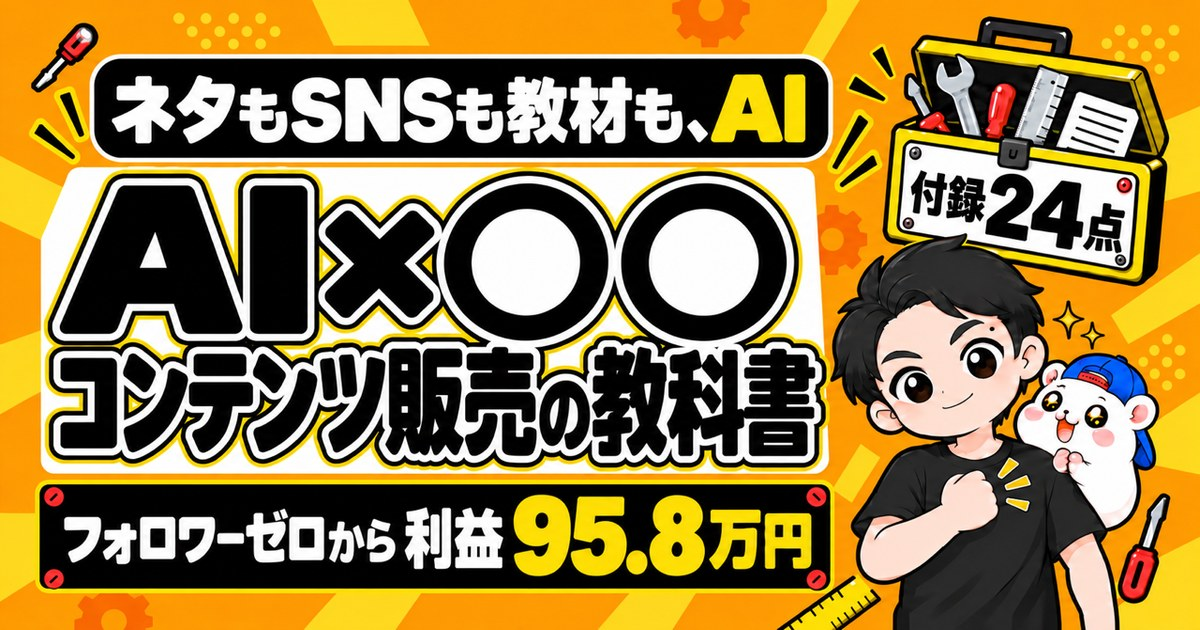
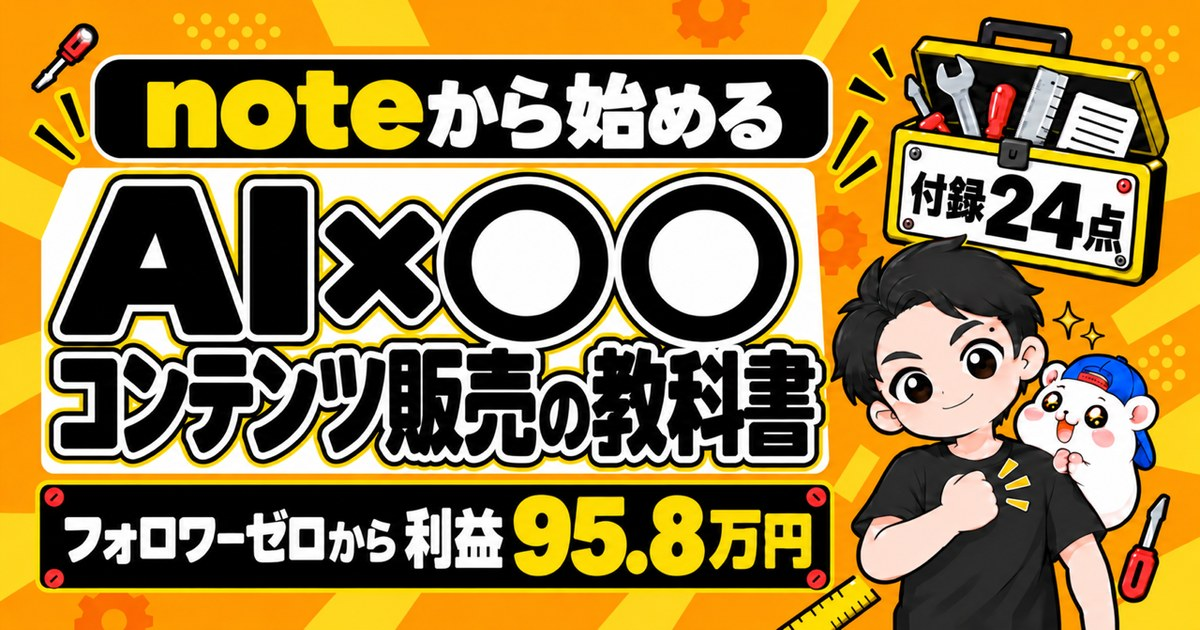
Retitle the AI textbook to 'noteから始める「AI×◯◯」コンテンツ販売の教科書' on its sales page, cover, and article promos

diff --git a/articles/2026-10-18-content-sales-price-up-ai.html b/articles/2026-10-18-content-sales-price-up-ai.html
@@ -162,7 +162,7 @@
 3. 台帳の部数と段の表がずれたら、直すところの一覧を出してください
 4. 直したあと、3つの販売ページを開いて、価格と「買える状態か」を確かめてください
 5. わたしが画面で押す必要がある操作は、最後に1回にまとめて、欄の名前と数字とボタンまで書いてください</code></pre>
-<p>この流れは、『「AI×◯◯」コンテンツ販売の教科書』の第6部「6-5 価格|3部ごとに上げる段と、表示の点検」と、第7部「7-1 販売を1つの台帳にまとめて、売れたらスマホに知らせる」に、手順とAIへの頼み方とつまずきを書きました。</p>
+<p>この流れは、『noteから始める「AI×◯◯」コンテンツ販売の教科書』の第6部「6-5 価格|3部ごとに上げる段と、表示の点検」と、第7部「7-1 販売を1つの台帳にまとめて、売れたらスマホに知らせる」に、手順とAIへの頼み方とつまずきを書きました。</p>
 <p>付録15(販売台帳と通知)と付録16(値上げの段+表示点検)には、ぼくが毎日使っているツールを、見本つきで入れています。</p>
 <p>AIでどこまで自動にするかは、各サービスの規約を確かめたうえで、自己責任で決めてください。</p>
 <hr/>
@@ -181,18 +181,18 @@
 <p>▼売れた部数の台帳と値上げのツールも、1冊にまとめてあります</p>
 <p>フォロワーゼロから利益95.8万円まで、54日間の数字と失敗と手順を、全部書いた教科書です。</p>
 <p>録音から記事、教材、販売ページ、売れたあとの台帳まで。うちで毎日使っているツールも付録に入れました。</p>
-<p>『「AI×◯◯」コンテンツ販売の教科書｜フォロワーゼロから利益95.8万円』</p>
-<div class="link-card-wrap"><a class="link-card" href="https://rental-space.net/kyokasho/ai-contents/"><span class="lc-body"><span class="lc-title">「AI×◯◯」コンテンツ販売の教科書｜フォロワーゼロから利益95.8万円</span><span class="lc-desc">AIでやったことを、AIで教材にして売る。フォロワーゼロから発売54日で利益95.8万円。最初の章(第0部)は全部無料で読めます。</span><span class="lc-site">rental-space.net</span></span><span class="lc-thumb"><img src="/kyokasho/ai-contents/img/ogp.jpg" alt="" loading="lazy"></span></a></div>
+<p>『noteから始める「AI×◯◯」コンテンツ販売の教科書｜フォロワーゼロから利益95.8万円』</p>
+<div class="link-card-wrap"><a class="link-card" href="https://rental-space.net/kyokasho/ai-contents/"><span class="lc-body"><span class="lc-title">noteから始める「AI×◯◯」コンテンツ販売の教科書｜フォロワーゼロから利益95.8万円</span><span class="lc-desc">AIでやったことを、AIで教材にして売る。フォロワーゼロから発売54日で利益95.8万円。最初の章(第0部)は全部無料で読めます。</span><span class="lc-site">rental-space.net</span></span><span class="lc-thumb"><img src="/kyokasho/ai-contents/img/ogp.jpg" alt="" loading="lazy"></span></a></div>
 <p>販売価格は3部売れるごとに2,000円ずつ値上がりします（上限あり）。内容・最新価格は販売ページをご確認ください。</p>
 <!-- kyokasho-promo end -->
 </div>
 <!-- kyokasho-banner-ai start -->
 <aside class="kyokasho-banner kb-ai">
     <a href="/kyokasho/ai-contents/" class="kb-thumb">
-        <img src="/kyokasho/ai-contents/img/ogp.jpg" alt="「AI×◯◯」コンテンツ販売の教科書｜フォロワーゼロから利益95.8万円" loading="lazy" width="640" height="335">
+        <img src="/kyokasho/ai-contents/img/ogp.jpg" alt="noteから始める「AI×◯◯」コンテンツ販売の教科書｜フォロワーゼロから利益95.8万円" loading="lazy" width="640" height="335">
     </a>
     <div class="kb-body">
-        <p class="kb-title">「AI×◯◯」コンテンツ販売の教科書</p>
+        <p class="kb-title">noteから始める「AI×◯◯」コンテンツ販売の教科書</p>
         <p class="kb-sub">フォロワーゼロから利益95.8万円まで、54日間の数字と失敗と手順を全部書きました。録音から記事・教材・販売ページ・売れたあとの台帳まで。付録24点つき。販売価格は3部売れるごとに2,000円ずつ値上がりします（上限あり）。内容・最新価格は販売ページをご確認ください。</p>
         <div class="kb-actions">
             <a href="/kyokasho/ai-contents/" class="kb-btn kb-btn-ebay">くわしく見る・買う</a>

diff --git a/articles/2026-10-18-manga-shorts-ai-daily.html b/articles/2026-10-18-manga-shorts-ai-daily.html
@@ -173,7 +173,7 @@
 
 コマ/だれ/セリフ/場面 の表にしてください。</code></pre>
 <p>台本ができたら、場面の1行を、そのまま絵の指示に使えます。</p>
-<p>記事を素材にして発信を回す流れは、『「AI×◯◯」コンテンツ販売の教科書』の第2部(素材をためる)と第4部(全媒体に出す)に書きました。</p>
+<p>記事を素材にして発信を回す流れは、『noteから始める「AI×◯◯」コンテンツ販売の教科書』の第2部(素材をためる)と第4部(全媒体に出す)に書きました。</p>
 <p>ショートの作り方そのものは、第8部「動画と講座」として第2版で足します。すでに買った人には、追加料金なしで届けます。</p>
 <p>AIでどこまで自動にするか、投稿にAIで作ったことをどう書くかは、各サービスの規約を確かめたうえで、自己責任で決めてください。</p>
 <p>例えば、ぼくは投稿文に「音声は本人の声をもとにAIで生成しています」と入れています。</p>
@@ -195,18 +195,18 @@
 <p>フォロワーゼロから利益95.8万円まで、54日間の数字と失敗と手順を、全部書いた教科書です。</p>
 <p>録音から記事、教材、販売ページ、売れたあとの台帳まで。うちで毎日使っているツールも付録に入れました。</p>
 <p>動画の章(第8部)は第2版で足します。すでに買った人には、追加料金はかかりません。</p>
-<p>『「AI×◯◯」コンテンツ販売の教科書｜フォロワーゼロから利益95.8万円』</p>
-<div class="link-card-wrap"><a class="link-card" href="https://rental-space.net/kyokasho/ai-contents/"><span class="lc-body"><span class="lc-title">「AI×◯◯」コンテンツ販売の教科書｜フォロワーゼロから利益95.8万円</span><span class="lc-desc">AIでやったことを、AIで教材にして売る。フォロワーゼロから発売54日で利益95.8万円。最初の章(第0部)は全部無料で読めます。</span><span class="lc-site">rental-space.net</span></span><span class="lc-thumb"><img src="/kyokasho/ai-contents/img/ogp.jpg" alt="" loading="lazy"></span></a></div>
+<p>『noteから始める「AI×◯◯」コンテンツ販売の教科書｜フォロワーゼロから利益95.8万円』</p>
+<div class="link-card-wrap"><a class="link-card" href="https://rental-space.net/kyokasho/ai-contents/"><span class="lc-body"><span class="lc-title">noteから始める「AI×◯◯」コンテンツ販売の教科書｜フォロワーゼロから利益95.8万円</span><span class="lc-desc">AIでやったことを、AIで教材にして売る。フォロワーゼロから発売54日で利益95.8万円。最初の章(第0部)は全部無料で読めます。</span><span class="lc-site">rental-space.net</span></span><span class="lc-thumb"><img src="/kyokasho/ai-contents/img/ogp.jpg" alt="" loading="lazy"></span></a></div>
 <p>販売価格は3部売れるごとに2,000円ずつ値上がりします（上限あり）。内容・最新価格は販売ページをご確認ください。</p>
 <!-- kyokasho-promo end -->
 </div>
 <!-- kyokasho-banner-ai start -->
 <aside class="kyokasho-banner kb-ai">
     <a href="/kyokasho/ai-contents/" class="kb-thumb">
-        <img src="/kyokasho/ai-contents/img/ogp.jpg" alt="「AI×◯◯」コンテンツ販売の教科書｜フォロワーゼロから利益95.8万円" loading="lazy" width="640" height="335">
+        <img src="/kyokasho/ai-contents/img/ogp.jpg" alt="noteから始める「AI×◯◯」コンテンツ販売の教科書｜フォロワーゼロから利益95.8万円" loading="lazy" width="640" height="335">
     </a>
     <div class="kb-body">
-        <p class="kb-title">「AI×◯◯」コンテンツ販売の教科書</p>
+        <p class="kb-title">noteから始める「AI×◯◯」コンテンツ販売の教科書</p>
         <p class="kb-sub">フォロワーゼロから利益95.8万円まで、54日間の数字と失敗と手順を全部書きました。録音から記事・教材・販売ページ・売れたあとの台帳まで。付録24点つき。販売価格は3部売れるごとに2,000円ずつ値上がりします（上限あり）。内容・最新価格は販売ページをご確認ください。</p>
         <div class="kb-actions">
             <a href="/kyokasho/ai-contents/" class="kb-btn kb-btn-ebay">くわしく見る・買う</a>

diff --git a/articles/2026-10-20-content-sales-starts-with-voice-recording.html b/articles/2026-10-20-content-sales-starts-with-voice-recording.html
@@ -202,18 +202,18 @@
 <p>▼録音から記事、教材、販売ページまで。やったことを1冊にまとめてあります</p>
 <p>フォロワーゼロから利益95.8万円まで、54日間の数字と失敗と手順を、全部書いた教科書です。</p>
 <p>録音から記事、教材、販売ページ、売れたあとの台帳まで。うちで毎日使っているツールも付録に入れました。</p>
-<p>『「AI×◯◯」コンテンツ販売の教科書｜フォロワーゼロから利益95.8万円』</p>
-<div class="link-card-wrap"><a class="link-card" href="https://rental-space.net/kyokasho/ai-contents/?utm_source=blog&amp;utm_medium=article&amp;utm_campaign=content-sales-starts-with-voice-recording"><span class="lc-body"><span class="lc-title">「AI×◯◯」コンテンツ販売の教科書｜フォロワーゼロから利益95.8万円</span><span class="lc-desc">AIでやったことを、AIで教材にして売る。フォロワーゼロから発売54日で利益95.8万円。最初の章(第0部)は全部無料で読めます。</span><span class="lc-site">rental-space.net</span></span><span class="lc-thumb"><img src="/kyokasho/ai-contents/img/ogp.jpg" alt="" loading="lazy"></span></a></div>
+<p>『noteから始める「AI×◯◯」コンテンツ販売の教科書｜フォロワーゼロから利益95.8万円』</p>
+<div class="link-card-wrap"><a class="link-card" href="https://rental-space.net/kyokasho/ai-contents/?utm_source=blog&amp;utm_medium=article&amp;utm_campaign=content-sales-starts-with-voice-recording"><span class="lc-body"><span class="lc-title">noteから始める「AI×◯◯」コンテンツ販売の教科書｜フォロワーゼロから利益95.8万円</span><span class="lc-desc">AIでやったことを、AIで教材にして売る。フォロワーゼロから発売54日で利益95.8万円。最初の章(第0部)は全部無料で読めます。</span><span class="lc-site">rental-space.net</span></span><span class="lc-thumb"><img src="/kyokasho/ai-contents/img/ogp.jpg" alt="" loading="lazy"></span></a></div>
 <p>販売価格は3部売れるごとに2,000円ずつ値上がりします（上限あり）。内容・最新価格は販売ページをご確認ください。</p>
 <!-- kyokasho-promo end -->
 </div>
 <!-- kyokasho-banner-ai start -->
 <aside class="kyokasho-banner kb-ai">
     <a href="/kyokasho/ai-contents/" class="kb-thumb">
-        <img src="/kyokasho/ai-contents/img/ogp.jpg" alt="「AI×◯◯」コンテンツ販売の教科書｜フォロワーゼロから利益95.8万円" loading="lazy" width="640" height="335">
+        <img src="/kyokasho/ai-contents/img/ogp.jpg" alt="noteから始める「AI×◯◯」コンテンツ販売の教科書｜フォロワーゼロから利益95.8万円" loading="lazy" width="640" height="335">
     </a>
     <div class="kb-body">
-        <p class="kb-title">「AI×◯◯」コンテンツ販売の教科書</p>
+        <p class="kb-title">noteから始める「AI×◯◯」コンテンツ販売の教科書</p>
         <p class="kb-sub">フォロワーゼロから利益95.8万円まで、54日間の数字と失敗と手順を全部書きました。録音から記事・教材・販売ページ・売れたあとの台帳まで。付録24点つき。販売価格は3部売れるごとに2,000円ずつ値上がりします（上限あり）。内容・最新価格は販売ページをご確認ください。</p>
         <div class="kb-actions">
             <a href="/kyokasho/ai-contents/" class="kb-btn kb-btn-ebay">くわしく見る・買う</a>

diff --git a/articles/2026-10-21-note-monetization-54-days-numbers.html b/articles/2026-10-21-note-monetization-54-days-numbers.html
@@ -182,18 +182,18 @@
 <p>▼noteで始めて、自分のページまで。やったことを1冊にまとめてあります</p>
 <p>フォロワーゼロから利益95.8万円まで、54日間の数字と失敗と手順を、全部書いた教科書です。</p>
 <p>録音から記事、教材、販売ページ、売れたあとの台帳まで。うちで毎日使っているツールも付録に入れました。</p>
-<p>『「AI×◯◯」コンテンツ販売の教科書｜フォロワーゼロから利益95.8万円』</p>
-<div class="link-card-wrap"><a class="link-card" href="https://rental-space.net/kyokasho/ai-contents/?utm_source=blog&amp;utm_medium=article&amp;utm_campaign=note-monetization-numbers"><span class="lc-body"><span class="lc-title">「AI×◯◯」コンテンツ販売の教科書｜フォロワーゼロから利益95.8万円</span><span class="lc-desc">AIでやったことを、AIで教材にして売る。フォロワーゼロから発売54日で利益95.8万円。最初の章(第0部)は全部無料で読めます。</span><span class="lc-site">rental-space.net</span></span><span class="lc-thumb"><img src="/kyokasho/ai-contents/img/ogp.jpg" alt="" loading="lazy"></span></a></div>
+<p>『noteから始める「AI×◯◯」コンテンツ販売の教科書｜フォロワーゼロから利益95.8万円』</p>
+<div class="link-card-wrap"><a class="link-card" href="https://rental-space.net/kyokasho/ai-contents/?utm_source=blog&amp;utm_medium=article&amp;utm_campaign=note-monetization-numbers"><span class="lc-body"><span class="lc-title">noteから始める「AI×◯◯」コンテンツ販売の教科書｜フォロワーゼロから利益95.8万円</span><span class="lc-desc">AIでやったことを、AIで教材にして売る。フォロワーゼロから発売54日で利益95.8万円。最初の章(第0部)は全部無料で読めます。</span><span class="lc-site">rental-space.net</span></span><span class="lc-thumb"><img src="/kyokasho/ai-contents/img/ogp.jpg" alt="" loading="lazy"></span></a></div>
 <p>販売価格は3部売れるごとに2,000円ずつ値上がりします（上限あり）。内容・最新価格は販売ページをご確認ください。</p>
 <!-- kyokasho-promo end -->
 </div>
 <!-- kyokasho-banner-ai start -->
 <aside class="kyokasho-banner kb-ai">
     <a href="/kyokasho/ai-contents/" class="kb-thumb">
-        <img src="/kyokasho/ai-contents/img/ogp.jpg" alt="「AI×◯◯」コンテンツ販売の教科書｜フォロワーゼロから利益95.8万円" loading="lazy" width="640" height="335">
+        <img src="/kyokasho/ai-contents/img/ogp.jpg" alt="noteから始める「AI×◯◯」コンテンツ販売の教科書｜フォロワーゼロから利益95.8万円" loading="lazy" width="640" height="335">
     </a>
     <div class="kb-body">
-        <p class="kb-title">「AI×◯◯」コンテンツ販売の教科書</p>
+        <p class="kb-title">noteから始める「AI×◯◯」コンテンツ販売の教科書</p>
         <p class="kb-sub">フォロワーゼロから利益95.8万円まで、54日間の数字と失敗と手順を全部書きました。録音から記事・教材・販売ページ・売れたあとの台帳まで。付録24点つき。販売価格は3部売れるごとに2,000円ずつ値上がりします（上限あり）。内容・最新価格は販売ページをご確認ください。</p>
         <div class="kb-actions">
             <a href="/kyokasho/ai-contents/" class="kb-btn kb-btn-ebay">くわしく見る・買う</a>

diff --git a/articles/2026-10-19-content-sales-pyramid-44-percent-zero.html b/articles/2026-10-19-content-sales-pyramid-44-percent-zero.html
@@ -151,18 +151,18 @@
 <p>▼1部目から、ひとつ上の段まで。やったことを1冊にまとめてあります</p>
 <p>フォロワーゼロから利益95.8万円まで、54日間の数字と失敗と手順を、全部書いた教科書です。</p>
 <p>録音から記事、教材、販売ページ、売れたあとの台帳まで。うちで毎日使っているツールも付録に入れました。</p>
-<p>『「AI×◯◯」コンテンツ販売の教科書｜フォロワーゼロから利益95.8万円』</p>
-<div class="link-card-wrap"><a class="link-card" href="https://rental-space.net/kyokasho/ai-contents/?utm_source=blog&amp;utm_medium=article&amp;utm_campaign=content-sales-pyramid"><span class="lc-body"><span class="lc-title">「AI×◯◯」コンテンツ販売の教科書｜フォロワーゼロから利益95.8万円</span><span class="lc-desc">AIでやったことを、AIで教材にして売る。フォロワーゼロから発売54日で利益95.8万円。最初の章(第0部)は全部無料で読めます。</span><span class="lc-site">rental-space.net</span></span><span class="lc-thumb"><img src="/kyokasho/ai-contents/img/ogp.jpg" alt="" loading="lazy"></span></a></div>
+<p>『noteから始める「AI×◯◯」コンテンツ販売の教科書｜フォロワーゼロから利益95.8万円』</p>
+<div class="link-card-wrap"><a class="link-card" href="https://rental-space.net/kyokasho/ai-contents/?utm_source=blog&amp;utm_medium=article&amp;utm_campaign=content-sales-pyramid"><span class="lc-body"><span class="lc-title">noteから始める「AI×◯◯」コンテンツ販売の教科書｜フォロワーゼロから利益95.8万円</span><span class="lc-desc">AIでやったことを、AIで教材にして売る。フォロワーゼロから発売54日で利益95.8万円。最初の章(第0部)は全部無料で読めます。</span><span class="lc-site">rental-space.net</span></span><span class="lc-thumb"><img src="/kyokasho/ai-contents/img/ogp.jpg" alt="" loading="lazy"></span></a></div>
 <p>販売価格は3部売れるごとに2,000円ずつ値上がりします（上限あり）。内容・最新価格は販売ページをご確認ください。</p>
 <!-- kyokasho-promo end -->
 </div>
 <!-- kyokasho-banner-ai start -->
 <aside class="kyokasho-banner kb-ai">
     <a href="/kyokasho/ai-contents/" class="kb-thumb">
-        <img src="/kyokasho/ai-contents/img/ogp.jpg" alt="「AI×◯◯」コンテンツ販売の教科書｜フォロワーゼロから利益95.8万円" loading="lazy" width="640" height="335">
+        <img src="/kyokasho/ai-contents/img/ogp.jpg" alt="noteから始める「AI×◯◯」コンテンツ販売の教科書｜フォロワーゼロから利益95.8万円" loading="lazy" width="640" height="335">
     </a>
     <div class="kb-body">
-        <p class="kb-title">「AI×◯◯」コンテンツ販売の教科書</p>
+        <p class="kb-title">noteから始める「AI×◯◯」コンテンツ販売の教科書</p>
         <p class="kb-sub">フォロワーゼロから利益95.8万円まで、54日間の数字と失敗と手順を全部書きました。録音から記事・教材・販売ページ・売れたあとの台帳まで。付録24点つき。販売価格は3部売れるごとに2,000円ずつ値上がりします（上限あり）。内容・最新価格は販売ページをご確認ください。</p>
         <div class="kb-actions">
             <a href="/kyokasho/ai-contents/" class="kb-btn kb-btn-ebay">くわしく見る・買う</a>

diff --git a/articles/2026-10-17-content-sales-idea-order.html b/articles/2026-10-17-content-sales-idea-order.html
@@ -199,18 +199,18 @@
 <p>▼AIで稼いで、教材にして売るまでを、ぜんぶ1冊にまとめてあります</p>
 <p>フォロワーゼロから利益95.8万円まで、54日間の数字と失敗と手順を、全部書いた教科書です。</p>
 <p>録音から記事、教材、販売ページ、売れたあとの台帳まで。うちで毎日使っているツールも付録に入れました。</p>
-<p>『「AI×◯◯」コンテンツ販売の教科書｜フォロワーゼロから利益95.8万円』</p>
-<div class="link-card-wrap"><a class="link-card" href="https://rental-space.net/kyokasho/ai-contents/"><span class="lc-body"><span class="lc-title">「AI×◯◯」コンテンツ販売の教科書｜フォロワーゼロから利益95.8万円</span><span class="lc-desc">AIでやったことを、AIで教材にして売る。フォロワーゼロから発売54日で利益95.8万円。最初の章(第0部)は全部無料で読めます。</span><span class="lc-site">rental-space.net</span></span><span class="lc-thumb"><img src="/kyokasho/ai-contents/img/ogp.jpg" alt="" loading="lazy"></span></a></div>
+<p>『noteから始める「AI×◯◯」コンテンツ販売の教科書｜フォロワーゼロから利益95.8万円』</p>
+<div class="link-card-wrap"><a class="link-card" href="https://rental-space.net/kyokasho/ai-contents/"><span class="lc-body"><span class="lc-title">noteから始める「AI×◯◯」コンテンツ販売の教科書｜フォロワーゼロから利益95.8万円</span><span class="lc-desc">AIでやったことを、AIで教材にして売る。フォロワーゼロから発売54日で利益95.8万円。最初の章(第0部)は全部無料で読めます。</span><span class="lc-site">rental-space.net</span></span><span class="lc-thumb"><img src="/kyokasho/ai-contents/img/ogp.jpg" alt="" loading="lazy"></span></a></div>
 <p>販売価格は3部売れるごとに2,000円ずつ値上がりします（上限あり）。内容・最新価格は販売ページをご確認ください。</p>
 <!-- kyokasho-promo end -->
 </div>
 <!-- kyokasho-banner-ai start -->
 <aside class="kyokasho-banner kb-ai">
     <a href="/kyokasho/ai-contents/" class="kb-thumb">
-        <img src="/kyokasho/ai-contents/img/ogp.jpg" alt="「AI×◯◯」コンテンツ販売の教科書｜フォロワーゼロから利益95.8万円" loading="lazy" width="640" height="335">
+        <img src="/kyokasho/ai-contents/img/ogp.jpg" alt="noteから始める「AI×◯◯」コンテンツ販売の教科書｜フォロワーゼロから利益95.8万円" loading="lazy" width="640" height="335">
     </a>
     <div class="kb-body">
-        <p class="kb-title">「AI×◯◯」コンテンツ販売の教科書</p>
+        <p class="kb-title">noteから始める「AI×◯◯」コンテンツ販売の教科書</p>
         <p class="kb-sub">フォロワーゼロから利益95.8万円まで、54日間の数字と失敗と手順を全部書きました。録音から記事・教材・販売ページ・売れたあとの台帳まで。付録24点つき。販売価格は3部売れるごとに2,000円ずつ値上がりします（上限あり）。内容・最新価格は販売ページをご確認ください。</p>
         <div class="kb-actions">
             <a href="/kyokasho/ai-contents/" class="kb-btn kb-btn-ebay">くわしく見る・買う</a>

diff --git a/articles/2026-10-17-100yen-extension-12-sold.html b/articles/2026-10-17-100yen-extension-12-sold.html
@@ -179,18 +179,18 @@
 <p>▼AIで作って、売るまでを、ぜんぶ1冊にまとめてあります</p>
 <p>フォロワーゼロから利益95.8万円まで、54日間の数字と失敗と手順を、全部書いた教科書です。</p>
 <p>録音から記事、教材、販売ページ、売れたあとの台帳まで。うちで毎日使っているツールも付録に入れました。</p>
-<p>『「AI×◯◯」コンテンツ販売の教科書｜フォロワーゼロから利益95.8万円』</p>
-<div class="link-card-wrap"><a class="link-card" href="https://rental-space.net/kyokasho/ai-contents/"><span class="lc-body"><span class="lc-title">「AI×◯◯」コンテンツ販売の教科書｜フォロワーゼロから利益95.8万円</span><span class="lc-desc">AIでやったことを、AIで教材にして売る。フォロワーゼロから発売54日で利益95.8万円。最初の章(第0部)は全部無料で読めます。</span><span class="lc-site">rental-space.net</span></span><span class="lc-thumb"><img src="/kyokasho/ai-contents/img/ogp.jpg" alt="" loading="lazy"></span></a></div>
+<p>『noteから始める「AI×◯◯」コンテンツ販売の教科書｜フォロワーゼロから利益95.8万円』</p>
+<div class="link-card-wrap"><a class="link-card" href="https://rental-space.net/kyokasho/ai-contents/"><span class="lc-body"><span class="lc-title">noteから始める「AI×◯◯」コンテンツ販売の教科書｜フォロワーゼロから利益95.8万円</span><span class="lc-desc">AIでやったことを、AIで教材にして売る。フォロワーゼロから発売54日で利益95.8万円。最初の章(第0部)は全部無料で読めます。</span><span class="lc-site">rental-space.net</span></span><span class="lc-thumb"><img src="/kyokasho/ai-contents/img/ogp.jpg" alt="" loading="lazy"></span></a></div>
 <p>販売価格は3部売れるごとに2,000円ずつ値上がりします（上限あり）。内容・最新価格は販売ページをご確認ください。</p>
 <!-- kyokasho-promo end -->
 </div>
 <!-- kyokasho-banner-ai start -->
 <aside class="kyokasho-banner kb-ai">
     <a href="/kyokasho/ai-contents/" class="kb-thumb">
-        <img src="/kyokasho/ai-contents/img/ogp.jpg" alt="「AI×◯◯」コンテンツ販売の教科書｜フォロワーゼロから利益95.8万円" loading="lazy" width="640" height="335">
+        <img src="/kyokasho/ai-contents/img/ogp.jpg" alt="noteから始める「AI×◯◯」コンテンツ販売の教科書｜フォロワーゼロから利益95.8万円" loading="lazy" width="640" height="335">
     </a>
     <div class="kb-body">
-        <p class="kb-title">「AI×◯◯」コンテンツ販売の教科書</p>
+        <p class="kb-title">noteから始める「AI×◯◯」コンテンツ販売の教科書</p>
         <p class="kb-sub">フォロワーゼロから利益95.8万円まで、54日間の数字と失敗と手順を全部書きました。録音から記事・教材・販売ページ・売れたあとの台帳まで。付録24点つき。販売価格は3部売れるごとに2,000円ずつ値上がりします（上限あり）。内容・最新価格は販売ページをご確認ください。</p>
         <div class="kb-actions">
             <a href="/kyokasho/ai-contents/" class="kb-btn kb-btn-ebay">くわしく見る・買う</a>

diff --git a/articles/2026-10-17-content-sales-from-zero-followers.html b/articles/2026-10-17-content-sales-from-zero-followers.html
@@ -208,18 +208,18 @@
 <p>▼このやり方は、ぜんぶ1冊にまとめてあります</p>
 <p>フォロワーゼロから利益95.8万円まで、54日間の数字と失敗と手順を、全部書いた教科書です。</p>
 <p>録音から記事、教材、販売ページ、売れたあとの台帳まで。うちで毎日使っているツールも付録に入れました。</p>
-<p>『「AI×◯◯」コンテンツ販売の教科書｜フォロワーゼロから利益95.8万円』</p>
-<div class="link-card-wrap"><a class="link-card" href="https://rental-space.net/kyokasho/ai-contents/"><span class="lc-body"><span class="lc-title">「AI×◯◯」コンテンツ販売の教科書｜フォロワーゼロから利益95.8万円</span><span class="lc-desc">AIでやったことを、AIで教材にして売る。フォロワーゼロから発売54日で利益95.8万円。最初の章(第0部)は全部無料で読めます。</span><span class="lc-site">rental-space.net</span></span><span class="lc-thumb"><img src="/kyokasho/ai-contents/img/ogp.jpg" alt="" loading="lazy"></span></a></div>
+<p>『noteから始める「AI×◯◯」コンテンツ販売の教科書｜フォロワーゼロから利益95.8万円』</p>
+<div class="link-card-wrap"><a class="link-card" href="https://rental-space.net/kyokasho/ai-contents/"><span class="lc-body"><span class="lc-title">noteから始める「AI×◯◯」コンテンツ販売の教科書｜フォロワーゼロから利益95.8万円</span><span class="lc-desc">AIでやったことを、AIで教材にして売る。フォロワーゼロから発売54日で利益95.8万円。最初の章(第0部)は全部無料で読めます。</span><span class="lc-site">rental-space.net</span></span><span class="lc-thumb"><img src="/kyokasho/ai-contents/img/ogp.jpg" alt="" loading="lazy"></span></a></div>
 <p>販売価格は3部売れるごとに2,000円ずつ値上がりします（上限あり）。内容・最新価格は販売ページをご確認ください。</p>
 <!-- kyokasho-promo end -->
 </div>
 <!-- kyokasho-banner-ai start -->
 <aside class="kyokasho-banner kb-ai">
     <a href="/kyokasho/ai-contents/" class="kb-thumb">
-        <img src="/kyokasho/ai-contents/img/ogp.jpg" alt="「AI×◯◯」コンテンツ販売の教科書｜フォロワーゼロから利益95.8万円" loading="lazy" width="640" height="335">
+        <img src="/kyokasho/ai-contents/img/ogp.jpg" alt="noteから始める「AI×◯◯」コンテンツ販売の教科書｜フォロワーゼロから利益95.8万円" loading="lazy" width="640" height="335">
     </a>
     <div class="kb-body">
-        <p class="kb-title">「AI×◯◯」コンテンツ販売の教科書</p>
+        <p class="kb-title">noteから始める「AI×◯◯」コンテンツ販売の教科書</p>
         <p class="kb-sub">フォロワーゼロから利益95.8万円まで、54日間の数字と失敗と手順を全部書きました。録音から記事・教材・販売ページ・売れたあとの台帳まで。付録24点つき。販売価格は3部売れるごとに2,000円ずつ値上がりします（上限あり）。内容・最新価格は販売ページをご確認ください。</p>
         <div class="kb-actions">
             <a href="/kyokasho/ai-contents/" class="kb-btn kb-btn-ebay">くわしく見る・買う</a>

diff --git a/kyokasho/ai-contents/index.html b/kyokasho/ai-contents/index.html
@@ -5,9 +5,9 @@
 <meta name="viewport" content="width=device-width,initial-scale=1">
 <script async src="https://www.googletagmanager.com/gtag/js?id=G-CHWF6QKRJ6"></script>
 <script>window.dataLayer=window.dataLayer||[];function gtag(){dataLayer.push(arguments);}gtag('js',new Date());gtag('config','G-CHWF6QKRJ6');</script>
-<title>「AI×◯◯」コンテンツ販売の教科書｜フォロワーゼロから利益95.8万円</title>
+<title>noteから始める「AI×◯◯」コンテンツ販売の教科書｜フォロワーゼロから利益95.8万円</title>
 <meta name="description" content="AIでやったことを、AIで教材にして売る。フォロワーゼロから発売54日で80部・利益95.8万円。録音から記事・教材・販売ページ・告知・売れたあとまで、ぼくがやった手順と付録24点。">
-<meta property="og:title" content="「AI×◯◯」コンテンツ販売の教科書｜フォロワーゼロから利益95.8万円">
+<meta property="og:title" content="noteから始める「AI×◯◯」コンテンツ販売の教科書｜フォロワーゼロから利益95.8万円">
 <meta property="og:description" content="AIでやったことを、AIで教材にして売る。フォロワーゼロから発売54日で利益95.8万円。最初の章(第0部)は全部無料で読めます。">
 <meta property="og:image" content="https://rental-space.net/kyokasho/ai-contents/img/ogp.jpg">
 <meta property="og:url" content="https://rental-space.net/kyokasho/ai-contents/">
@@ -59,10 +59,10 @@ article strong{background:linear-gradient(transparent 62%,var(--pale) 62%)}
 <link rel="stylesheet" href="/assets/site-footer.css?v=20260919">
 </head>
 <body>
-<div class="topbar"><strong>「AI×◯◯」コンテンツ販売の教科書</strong>｜最初の章(第0部)は、全部無料で読めます</div>
+<div class="topbar"><strong>noteから始める「AI×◯◯」コンテンツ販売の教科書</strong>｜最初の章(第0部)は、全部無料で読めます</div>
 <main class="wrap">
 <section class="hero">
-  <img src="img/cover.jpg" alt="「AI×◯◯」コンテンツ販売の教科書｜フォロワーゼロから利益95.8万円" width="1280" height="670">
+  <img src="img/cover.jpg" alt="noteから始める「AI×◯◯」コンテンツ販売の教科書｜フォロワーゼロから利益95.8万円" width="1280" height="670">
   <h1>フォロワーゼロから、<em>利益95.8万円</em>。<br>AIでやって、AIで教材にした手順を、全部書きました。</h1>
   <p>録音から記事・教材・販売ページ・告知・売れたあとの手続きまで、ぼくがAIに任せている流れと、毎日使っているツール(付録24点)です。</p>
   <ul class="facts">
@@ -229,7 +229,7 @@ AIフル活用で日々運営しています。</p>
 <td style="text-align: right;">1,700円</td>
 </tr>
 <tr>
-<td>「AI×◯◯」コンテンツ販売の教科書(この教科書・Brain)</td>
+<td>noteから始める「AI×◯◯」コンテンツ販売の教科書(この教科書・Brain)</td>
 <td style="text-align: right;">9部</td>
 <td style="text-align: right;">5,240円</td>
 </tr>

diff --git a/kyokasho/thanks/index.html b/kyokasho/thanks/index.html
@@ -80,7 +80,7 @@ body{margin:0;background:var(--paper);color:var(--ink);font-family:'Noto Sans JP
 (function(){
   var q=new URLSearchParams(location.search);var p=q.get('p')||'';var s=q.get('s')||'';
   var f=document.getElementById('form-link');if(f&&/^(rental|ebay|ebay_rental_set|hp|dance|aicontents)$/.test(p))f.href='https://rental-space.net/form/?p='+p;
-  var NAMES={aicontents:'「AI×◯◯」コンテンツ販売の教科書',ebay:'AI × eBay輸出の教科書(第3版)',ebay_rental_set:'AI×eBay輸出の教科書(第3版)+レンタルスペース経営の教科書 セット',rental:'レンタルスペース経営の教科書',dance:'ダンススタジオ完全ロードマップ',dance_set:'ダンススタジオ完全ロードマップ+レンタルスペース経営の教科書',hp:'レンタルスペースの公式HPメーカー',kit:'レンスペ運営AIキット',k1:'レンスペ経営ダッシュボードPro',kit_set:'レンタルスペース経営の教科書+運営AIキット'};
+  var NAMES={aicontents:'noteから始める「AI×◯◯」コンテンツ販売の教科書',ebay:'AI × eBay輸出の教科書(第3版)',ebay_rental_set:'AI×eBay輸出の教科書(第3版)+レンタルスペース経営の教科書 セット',rental:'レンタルスペース経営の教科書',dance:'ダンススタジオ完全ロードマップ',dance_set:'ダンススタジオ完全ロードマップ+レンタルスペース経営の教科書',hp:'レンタルスペースの公式HPメーカー',kit:'レンスペ運営AIキット',k1:'レンスペ経営ダッシュボードPro',kit_set:'レンタルスペース経営の教科書+運営AIキット'};
   var pe=document.getElementById('prod');if(pe&&NAMES[p]){pe.textContent=NAMES[p];pe.hidden=false;}
   var ro=document.getElementById('rental-offer');if(ro&&p==='ebay')ro.hidden=false;
   // A redirect is not payment verification. Actual orders/amounts come from the shop ledger.

diff --git a/line/ai/index.html b/line/ai/index.html
@@ -112,7 +112,7 @@ input[type=email]{width:100%;font-size:16px;padding:12px;border:2px solid var(--
 <p class="note">発行: きくりん(株式会社オサラロック)/<a href="/mail/publisher.html">発行者情報</a></p>
 </section>
 
-<p class="buy">あなたの経験をAIで教材にする手順を先に読みたい方は <a id="buy-link" href="/kyokasho/ai-contents/?utm_source=tokuten_lp&amp;utm_medium=ai_tasks">『「AI×◯◯」コンテンツ販売の教科書』</a>(第0部は無料)</p>
+<p class="buy">あなたの経験をAIで教材にする手順を先に読みたい方は <a id="buy-link" href="/kyokasho/ai-contents/?utm_source=tokuten_lp&amp;utm_medium=ai_tasks">『noteから始める「AI×◯◯」コンテンツ販売の教科書』</a>(第0部は無料)</p>
 </main>
 <script>
 (() => {
